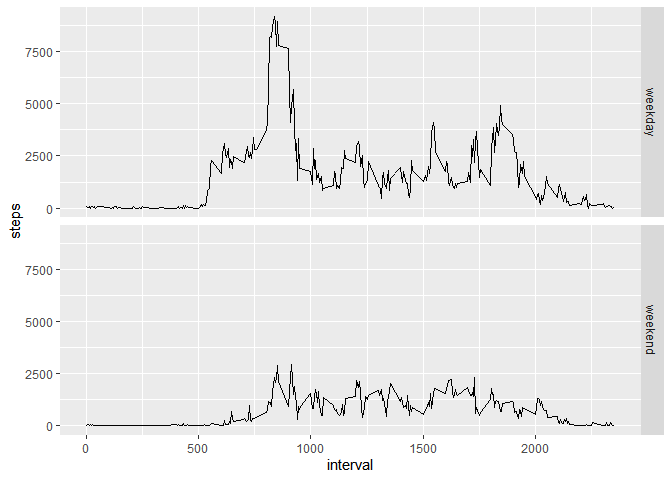
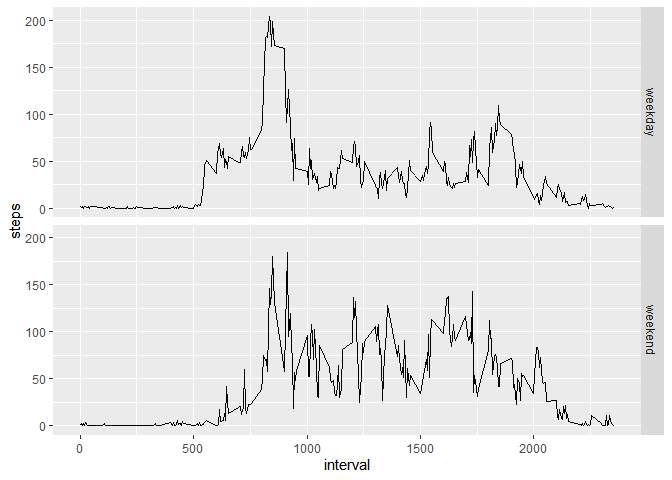
sum to mean

diff --git a/PA1_template.html b/PA1_template.html
@@ -694,11 +694,11 @@ plot should look like using simulated data.</li>
 </ol>
 </blockquote>
 <pre class="r"><code>stepsdayimp = actimp %&gt;% group_by(interval, day) %&gt;%
-              summarise(steps = sum(steps))</code></pre>
+              summarise(steps = mean(steps))</code></pre>
 <pre><code>## `summarise()` has grouped output by &#39;interval&#39;. You can override using the
 ## `.groups` argument.</code></pre>
 <pre class="r"><code>ggplot(stepsdayimp, aes(interval, steps)) + facet_grid(vars(day)) + geom_line()</code></pre>
[2 lines of base64/hex data omitted]
 </div>
 </div>
 

diff --git a/PA1_template.md b/PA1_template.md
@@ -430,7 +430,7 @@ summary(actimp)
 
 ```r
 stepsdayimp = actimp %>% group_by(interval, day) %>%
-              summarise(steps = sum(steps))
+              summarise(steps = mean(steps))
 ```
 
 ```
